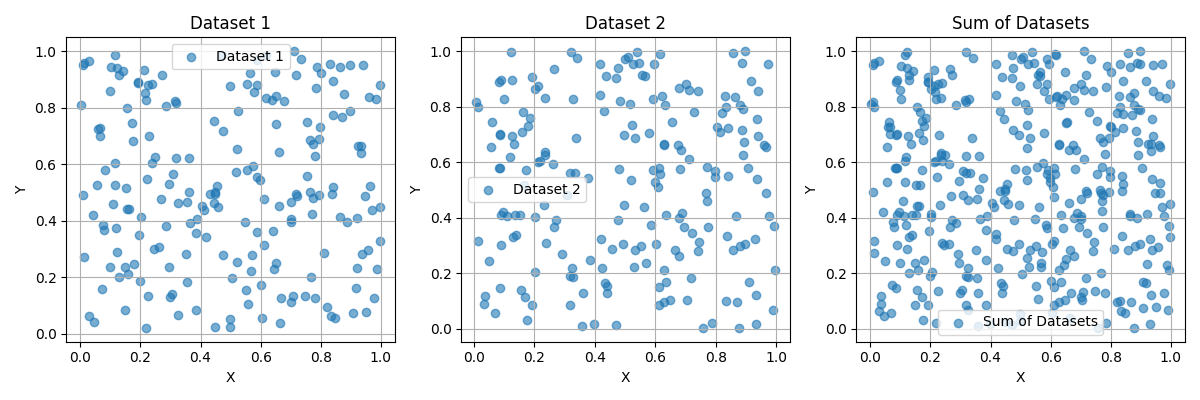
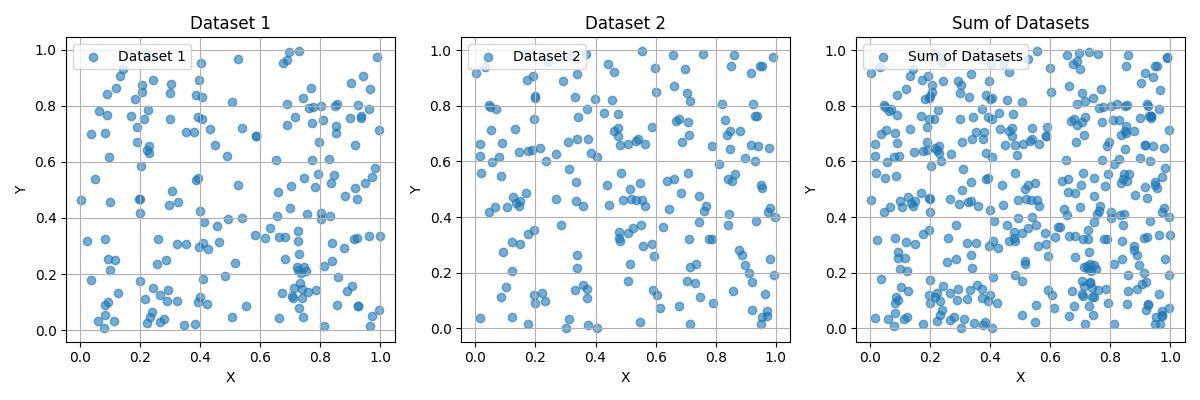
Another version of exercise_1 which save data into xml.

diff --git a/code/exercise_1.py b/code/exercise_1.py
@@ -1,29 +1,78 @@
+"""
+This module contains the DatasetGenerator class which generates random datasets
+and provides functionality to add datasets together and save the results.
+"""
+
 import numpy as np
 import json
 import matplotlib.pyplot as plt
 import os
 
 class DatasetGenerator:
-
+    """
+    A class to generate and manipulate datasets by creating random data and 
+    combining multiple datasets.
+    """
     def __init__(self, num_points=100, noise=16):
+        """
+        Initializes the DatasetGenerator instance with the specified number of 
+        points and noise level.
+
+        Parameters:
+        num_points (int): The number of points to generate in each dataset.
+        noise (int): The noise level to apply when generating the datasets.
+        """
         self.num_points = num_points
         self.noise = noise
 
     def generate_random(self, num_points=None):
+        """
+        Generates a random dataset with two columns and the specified number of 
+        points.
+
+        Parameters:
+        num_points (int, optional): The number of points to generate. Defaults to 
+                                     self.num_points.
+
+        Returns:
+        numpy.ndarray: A 2D array containing the random data.
+        """
         if num_points is None:
             num_points = self.num_points  # Default to self.num_points if no argument is passed
         rand_data = np.random.rand(num_points, 2)
         return rand_data
-    
+
     def add_datasets(self, num_points=None):
+        """
+        Generates two random datasets and combines them by appending them together.
+
+        Parameters:
+        num_points (int, optional): The number of points to generate. Defaults to 
+                                     self.num_points.
+
+        Returns:
+        numpy.ndarray: The combined dataset.
+        numpy.ndarray: The first random dataset.
+        numpy.ndarray: The second random dataset.
+        """
         if num_points is None:
             num_points = self.num_points  # Default to self.num_points if no argument is passed
-        dataset_1 = self.generate_random(num_points) 
+        dataset_1 = self.generate_random(num_points)
         dataset_2 = self.generate_random(num_points)
         sum_of_data = np.append(dataset_1, dataset_2, axis=0).reshape(-1, 2)
         return sum_of_data, dataset_1, dataset_2
-    
-    def save(self, folder='MOD550/data', filename='dataset.npy', plot_filename='plots.png', metadata_filename='metadata.json'):
+
+    def save(self, folder='MOD550/data', filename='dataset.npy', plot_filename='plots.png',
+             metadata_filename='metadata.json'):
+        """
+        Saves the generated datasets, their sum, and metadata to files. Also, 
+        generates and saves plots of the datasets.
+
+        Parameters:
+        filename (str): The filename to save the datasets to.
+        plot_filename (str): The filename to save the plot to.
+        metadata_filename (str): The filename to save the metadata to.
+        """
         # Ensure the folder exists
         os.makedirs(folder, exist_ok=True)
 
@@ -31,7 +80,8 @@ class DatasetGenerator:
         data, dataset_1, dataset_2 = self.add_datasets()
 
         # Save the data and metadata to a .npz file
-        np.savez(os.path.join(folder, filename), sum_of_data=data, dataset_1=dataset_1, dataset_2=dataset_2)
+        np.savez(os.path.join(folder, filename), sum_of_data=data, dataset_1=dataset_1, 
+                 dataset_2=dataset_2)
 
         # Save metadata
         metadata = {
@@ -81,4 +131,5 @@ class DatasetGenerator:
 
 # Example usage
 dataset_generator = DatasetGenerator(num_points=200)
-dataset_generator.save(folder='MOD550/data', filename='generated_data.npz', plot_filename='generated_plots.png', metadata_filename='metadata.json')
+dataset_generator.save(folder='MOD550/data', filename='generated_data.npz',
+                       plot_filename='generated_plots.png', metadata_filename='metadata.json')

diff --git a/code/exe1.py b/code/exe1.py
@@ -1,0 +1,104 @@
+import numpy as np
+import json
+import matplotlib.pyplot as plt
+import os
+import xml.etree.ElementTree as ET
+
+class DatasetGenerator:
+    """
+    A class to generate and manipulate datasets by creating random data and 
+    combining multiple datasets.
+    """
+    def __init__(self, num_points=100, noise=16):
+        self.num_points = num_points
+        self.noise = noise
+
+    def generate_random(self, num_points=None):
+        if num_points is None:
+            num_points = self.num_points
+        return np.random.rand(num_points, 2)
+
+    def add_datasets(self, num_points=None):
+        if num_points is None:
+            num_points = self.num_points
+        dataset_1 = self.generate_random(num_points)
+        dataset_2 = self.generate_random(num_points)
+        sum_of_data = np.append(dataset_1, dataset_2, axis=0).reshape(-1, 2)
+        return sum_of_data, dataset_1, dataset_2
+
+    def save(self, folder='MOD550/data', filename='dataset.xml', plot_filename='plots.png', metadata_filename='metadata.json'):
+        os.makedirs(folder, exist_ok=True)
+
+        data, dataset_1, dataset_2 = self.add_datasets()
+
+        # Create XML structure
+        root = ET.Element("datasets")
+
+        sum_data_elem = ET.SubElement(root, "sum_of_data")
+        for point in data:
+            point_elem = ET.SubElement(sum_data_elem, "point")
+            ET.SubElement(point_elem, "x").text = str(point[0])
+            ET.SubElement(point_elem, "y").text = str(point[1])
+
+        dataset_1_elem = ET.SubElement(root, "dataset_1")
+        for point in dataset_1:
+            point_elem = ET.SubElement(dataset_1_elem, "point")
+            ET.SubElement(point_elem, "x").text = str(point[0])
+            ET.SubElement(point_elem, "y").text = str(point[1])
+
+        dataset_2_elem = ET.SubElement(root, "dataset_2")
+        for point in dataset_2:
+            point_elem = ET.SubElement(dataset_2_elem, "point")
+            ET.SubElement(point_elem, "x").text = str(point[0])
+            ET.SubElement(point_elem, "y").text = str(point[1])
+
+        # Write XML to file
+        tree = ET.ElementTree(root)
+        xml_path = os.path.join(folder, filename)
+        tree.write(xml_path)
+
+        # Save metadata
+        metadata = {
+            "num_points": self.num_points,
+            "noise": self.noise,
+            "data_shape": data.shape,
+            "dataset_1_shape": dataset_1.shape,
+            "dataset_2_shape": dataset_2.shape
+        }
+        with open(os.path.join(folder, metadata_filename), 'w') as f:
+            json.dump(metadata, f, indent=4)
+
+        # Create the plot
+        plt.figure(figsize=(12, 4))
+        plt.subplot(1, 3, 1)
+        plt.scatter(dataset_1[:, 0], dataset_1[:, 1], label="Dataset 1", alpha=0.6)
+        plt.title("Dataset 1")
+        plt.xlabel("X")
+        plt.ylabel("Y")
+        plt.legend()
+        plt.grid(True)
+
+        plt.subplot(1, 3, 2)
+        plt.scatter(dataset_2[:, 0], dataset_2[:, 1], label="Dataset 2", alpha=0.6)
+        plt.title("Dataset 2")
+        plt.xlabel("X")
+        plt.ylabel("Y")
+        plt.legend()
+        plt.grid(True)
+
+        plt.subplot(1, 3, 3)
+        plt.scatter(data[:, 0], data[:, 1], label="Sum of Datasets", alpha=0.6)
+        plt.title("Sum of Datasets")
+        plt.xlabel("X")
+        plt.ylabel("Y")
+        plt.legend()
+        plt.grid(True)
+
+        plt.tight_layout()
+        plt.savefig(os.path.join(folder, plot_filename))
+        plt.close()
+
+# Example usage
+dataset_generator = DatasetGenerator(num_points=200)
+dataset_generator.save(folder='MOD550/data', filename='generated_data.xml',
+                       plot_filename='generated_plots.png', metadata_filename='metadata.json')
